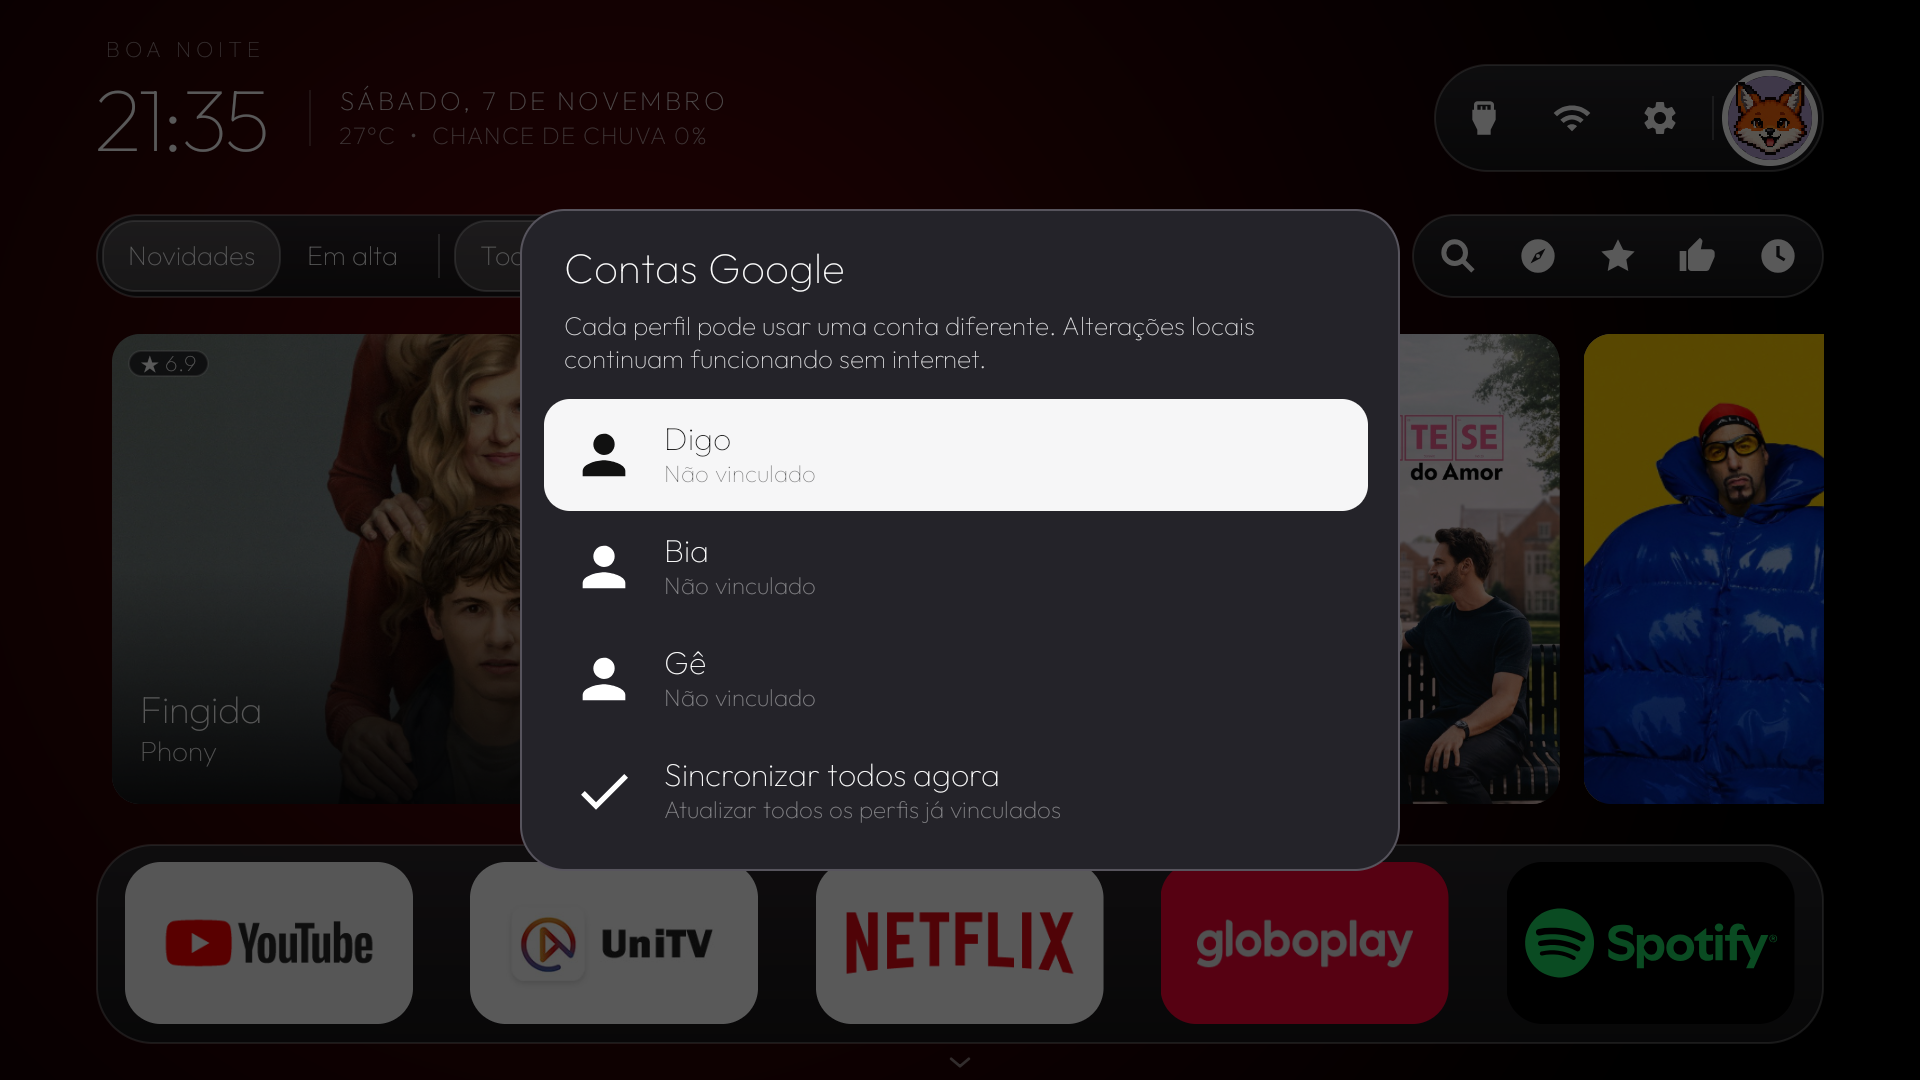
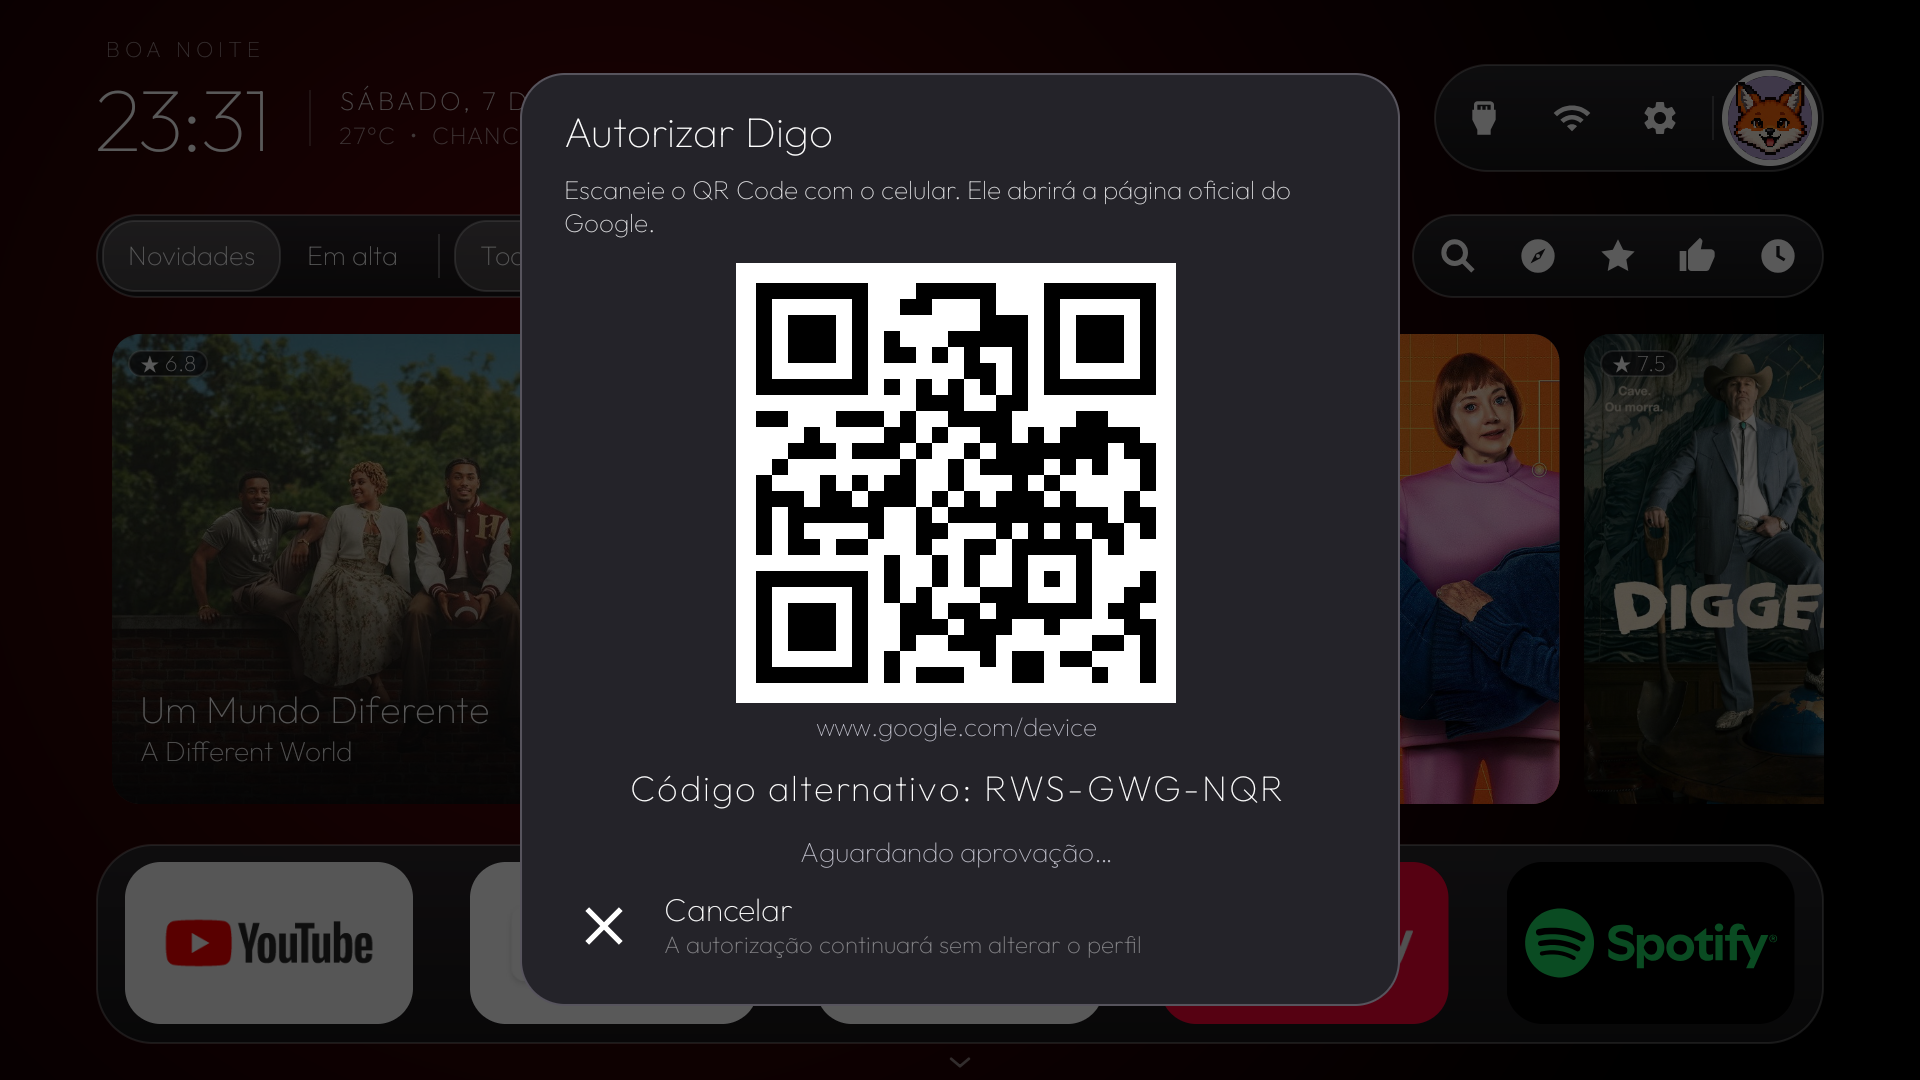
Publish 3.0.2 Google profiles and update flow

diff --git a/docs/index.html b/docs/index.html
@@ -39,14 +39,14 @@
       <div class="section-head"><h2>Uma Home que entende a casa inteira.</h2><p>O sistema combina catálogo, disponibilidade, histórico e comportamento de cada pessoa para transformar a primeira tela em uma central de descoberta.</p></div>
       <div class="feature-grid">
         <article class="feature"><div class="icon" aria-hidden="true">✦</div><h3>Recomendação individual</h3><p>Cada perfil aprende com notas de “Odiei” a “Amei”, gêneros, formato, duração, direção, elenco, assistidos e listas. O ranking evita repetir o que acabou de aparecer.</p></article>
-        <article class="feature"><div class="icon" aria-hidden="true">◎</div><h3>Geral e por perfil</h3><p>Use a Home no modo individual ou abra Descobrir para combinar duas ou mais pessoas. O Geral favorece afinidades em comum e reduz conflitos entre gostos.</p></article>
+          <article class="feature"><div class="icon" aria-hidden="true">◎</div><h3>Geral e por perfil</h3><p>A lista de perfis mostra Geral e cada pessoa da casa. Escolha o modo individual ou combine os gostos para encontrar afinidades sem apagar preferências.</p></article>
         <article class="feature"><div class="icon" aria-hidden="true">◒</div><h3>Estatísticas de gostos</h3><p>Veja afinidade de 0 a 100%, gêneros mais fortes, títulos registrados, assistidos e notas de cada perfil para entender como o gosto está evoluindo.</p></article>
         <article class="feature"><div class="icon" aria-hidden="true">⌕</div><h3>Busca por texto e voz</h3><p>Pesquise em português, filtre Tudo, Filme ou Série, explore o catálogo IMDb com a lupa vazia e abra detalhes relacionados sem perder a posição.</p></article>
         <article class="feature"><div class="icon" aria-hidden="true">▣</div><h3>Capas e catálogo em PT-BR</h3><p>O catálogo prioriza títulos, sinopses, disponibilidade e capas brasileiras. A Home prepara versões horizontal e vertical sem deformar a imagem.</p></article>
         <article class="feature"><div class="icon" aria-hidden="true">▶</div><h3>Trailers dentro do modal</h3><p>Assista ao trailer em tela cheia com D-pad, prioridade para PT-BR e carregamento progressivo, sem precisar abandonar o launcher.</p></article>
         <article class="feature"><div class="icon" aria-hidden="true">◌</div><h3>Feito para controle remoto</h3><p>Foco visível, grades contínuas, seis colunas na busca, retorno ao card anterior e avanço controlado ao voltar de outro aplicativo.</p></article>
         <article class="feature"><div class="icon" aria-hidden="true">↗</div><h3>Histórico e listas</h3><p>Assistidos, avaliações, Gostos, Favoritos e Assistir mais tarde ficam acessíveis pela barra da Home, separados do menu de perfis.</p></article>
-        <article class="feature"><div class="icon" aria-hidden="true">☁</div><h3>Perfil que viaja</h3><p>Vincule cada perfil a uma conta Google e sincronize histórico, avaliações, gostos e listas em uma pasta própria do Drive.</p></article>
+          <article class="feature"><div class="icon" aria-hidden="true">☁</div><h3>Perfil que viaja</h3><p>Vincule cada perfil a uma conta Google pelo QR code e sincronize histórico, avaliações, gostos e listas em uma pasta própria do Drive.</p></article>
       </div>
     </div></section>
 
@@ -86,7 +86,7 @@
       const preview = document.getElementById('feature-preview');
       const image = preview.querySelector('img');
       const caption = preview.querySelector('span');
-      const screenshots = ['screen-home.png','screen-tastes.png','screen-tastes.png','screen-search.png','screen-detail.png','screen-trailer.png','screen-home.png','screen-home.png','screen-sync.png'];
+        const screenshots = ['screen-tastes.png','screen-profiles.png','screen-tastes.png','screen-search.png','screen-detail.png','screen-trailer.png','screen-home.png','screen-tastes.png','screen-sync.png'];
       let active = null;
       function place(x, y) {
         const margin = 18, width = preview.offsetWidth, height = preview.offsetHeight;

diff --git a/launcher/app/src/main/java/com/gathin/tvhome/MainActivity.java b/launcher/app/src/main/java/com/gathin/tvhome/MainActivity.java
@@ -155,6 +155,8 @@ public class MainActivity extends Activity implements AppAdapter.TileListener {
     private View updateWelcomeOverlay;
     private ProgressBar updateDownloadProgress;
     private TextView updateDownloadStatus;
+    private TextView updatePermissionAction;
+    private java.io.File pendingUpdateApk;
     private int updateNoticeVersion=-1;
     private ProfileController profiles;
     private WatchFeedbackController watchFeedback;
@@ -696,7 +698,13 @@ public class MainActivity extends Activity implements AppAdapter.TileListener {
     @Override
     protected void onResume() {
         super.onResume(); activityResumed=true;
-        if (homeInitialized) { resumeHome(); UpdateManager.checkIfDue(this,this::onUpdateChecked); }
+        if (homeInitialized) {
+            resumeHome();
+            if (pendingUpdateApk!=null && (android.os.Build.VERSION.SDK_INT<26 || getPackageManager().canRequestPackageInstalls())) {
+                java.io.File apk=pendingUpdateApk; pendingUpdateApk=null; installUpdate(apk);
+            }
+            UpdateManager.checkIfDue(this,this::onUpdateChecked);
+        }
     }
     private void resumeHome() {
         long resumeBegan=android.os.SystemClock.elapsedRealtime();
@@ -812,8 +820,9 @@ public class MainActivity extends Activity implements AppAdapter.TileListener {
         for (String change:availableUpdate.changes) { TextView row=new TextView(this); row.setText("•  "+change); row.setTextColor(0xffc9c9d2); row.setTextSize(12); row.setPadding(0,dp(3),0,dp(3)); changes.addView(row); }
         ScrollView scroll=new ScrollView(this); scroll.addView(changes); panel.addView(scroll,new LinearLayout.LayoutParams(-1,dp(130)));
         updateDownloadProgress=new ProgressBar(this,null,android.R.attr.progressBarStyleHorizontal); updateDownloadProgress.setMax(100); updateDownloadProgress.setIndeterminate(true); panel.addView(updateDownloadProgress,new LinearLayout.LayoutParams(-1,dp(6)));
-        updateDownloadStatus=new TextView(this); updateDownloadStatus.setText("Baixando a atualização…"); updateDownloadStatus.setTextColor(0xffbcbcc7); updateDownloadStatus.setTextSize(12); updateDownloadStatus.setPadding(0,dp(10),0,0); panel.addView(updateDownloadStatus);
-        FrameLayout.LayoutParams pp=new FrameLayout.LayoutParams(dp(670),dp(410),Gravity.CENTER); overlay.addView(panel,pp); root.addView(overlay,new FrameLayout.LayoutParams(-1,-1)); updateWelcomeOverlay=overlay; overlay.requestFocus();
+        updateDownloadStatus=new TextView(this); updateDownloadStatus.setText("Baixando a atualização oficial do GitHub…"); updateDownloadStatus.setTextColor(0xffbcbcc7); updateDownloadStatus.setTextSize(12); updateDownloadStatus.setPadding(0,dp(10),0,dp(6)); panel.addView(updateDownloadStatus);
+        updatePermissionAction=updateAction("ABRIR CONFIGURAÇÃO"); updatePermissionAction.setVisibility(View.GONE); panel.addView(updatePermissionAction,new LinearLayout.LayoutParams(-2,dp(42)));
+        FrameLayout.LayoutParams pp=new FrameLayout.LayoutParams(dp(720),dp(430),Gravity.CENTER); overlay.addView(panel,pp); root.addView(overlay,new FrameLayout.LayoutParams(-1,-1)); updateWelcomeOverlay=overlay; overlay.requestFocus();
         UpdateManager.download(this,availableUpdate,new UpdateManager.DownloadCallback() {
             @Override public void progress(int percent) { if (updateDownloadProgress==null) return; if (percent<0) updateDownloadProgress.setIndeterminate(true); else { updateDownloadProgress.setIndeterminate(false); updateDownloadProgress.setProgress(percent); updateDownloadStatus.setText("Baixando a atualização… "+percent+"%"); } }
             @Override public void success(java.io.File apk) { updateDownloadStatus.setText("Download concluído. Abrindo instalação…"); installUpdate(apk); }
@@ -821,10 +830,14 @@ public class MainActivity extends Activity implements AppAdapter.TileListener {
         });
     }
     private void installUpdate(java.io.File apk) {
+        pendingUpdateApk=apk;
         try {
             if (android.os.Build.VERSION.SDK_INT>=26 && !getPackageManager().canRequestPackageInstalls()) {
-                updateDownloadStatus.setText("Permita instalações do PIXEL TV e volte para concluir."); startActivity(new Intent(Settings.ACTION_MANAGE_UNKNOWN_APP_SOURCES,Uri.parse("package:"+getPackageName()))); return;
+                updateDownloadStatus.setText("Para concluir automaticamente, permita instalações do PIXEL TV e volte para esta tela.");
+                if (updatePermissionAction!=null) { updatePermissionAction.setVisibility(View.VISIBLE); updatePermissionAction.setOnClickListener(v -> startActivity(new Intent(Settings.ACTION_MANAGE_UNKNOWN_APP_SOURCES,Uri.parse("package:"+getPackageName())))); updatePermissionAction.requestFocus(); }
+                return;
             }
+            pendingUpdateApk=null;
             Uri uri=FileProvider.getUriForFile(this,getPackageName()+".fileprovider",apk);
             Intent intent=new Intent(Intent.ACTION_VIEW).setDataAndType(uri,"application/vnd.android.package-archive"); intent.addFlags(Intent.FLAG_GRANT_READ_URI_PERMISSION|Intent.FLAG_ACTIVITY_NEW_TASK); startActivity(intent);
         } catch (Exception e) { if (updateDownloadStatus!=null) updateDownloadStatus.setText("Não foi possível abrir o instalador nesta TV."); }

diff --git a/CHANGELOG.md b/CHANGELOG.md
@@ -1,5 +1,12 @@
 # Changelog do PIXEL TV
 
+## 3.0.2
+
+- Perfis podem conectar sua conta Google e levar histórico, gostos e listas para outra TV.
+- O QR code de conexão mostra o código alternativo para concluir o login pelo celular.
+- O modal de atualização orienta a permissão necessária e retoma a instalação automaticamente.
+- A Home volta direto para as recomendações, sem repetir a saudação ao sair de um app.
+
 ## 3.0.1
 
 - Ajustes de estabilidade no retorno à Home e no aviso de atualização.
